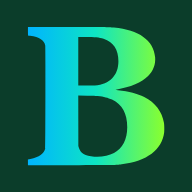
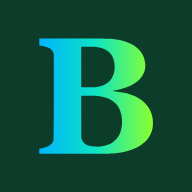
fix: tydligare logga i ljust läge och mer luft i ikonerna
Loggans blå och turkos flöt ihop med den gröna sidomenyn, så den får
faviconens ljusare färger där. B:et tar nu 60 % av de stora ikonerna
och 68 % av 48 px, medan flikens små storlekar är oförändrade.

Changed region(s): [[0.125, 0.125, 0.875, 0.875], [0.5312, 0.5, 0.5938, 0.5312]]

diff --git a/src/components/shared/BokixWordmark.jsx b/src/components/shared/BokixWordmark.jsx
@@ -34,6 +34,14 @@ const PATH_D = "M8.39 37L2.92 37L2.92 35.25Q3.79 34.75 4.78 34.38Q5.77 34.01 6.6
 const VB_WIDTH = 125;
 const VB_HEIGHT = 40;
 
+// CSS-variabler så att en yta kan byta loggans färger: se den gröna sidomenyn
+// i ljust läge i index.css, där standardfärgerna flöt ihop med bakgrunden.
+const GRADIENT_STOPS = [
+  { stopColor: 'var(--logo-grad-a, #0ea5e9)' },
+  { stopColor: 'var(--logo-grad-b, #14b8a6)' },
+  { stopColor: 'var(--logo-grad-c, #84cc16)' },
+];
+
 export default function BokixWordmark({ height = 34, style, className }) {
   // Egen gradient-id per instans (useId()) — annars kolliderar två
   // samtidigt monterade loggor (t.ex. sidopanelen + mobilens topbar) på
@@ -56,9 +64,9 @@ export default function BokixWordmark({ height = 34, style, className }) {
     >
       <defs>
         <linearGradient id={gradId} x1="0%" y1="0%" x2="100%" y2="0%">
-          <stop offset="0%" stopColor="#0ea5e9" />
-          <stop offset="50%" stopColor="#14b8a6" />
-          <stop offset="100%" stopColor="#84cc16" />
+          <stop offset="0%" style={GRADIENT_STOPS[0]} />
+          <stop offset="50%" style={GRADIENT_STOPS[1]} />
+          <stop offset="100%" style={GRADIENT_STOPS[2]} />
         </linearGradient>
       </defs>
       <path d={PATH_D} fill={`url(#${gradId})`} />
@@ -84,9 +92,9 @@ export function BokixMark({ height = 30, style, className }) {
     >
       <defs>
         <linearGradient id={gradId} gradientUnits="userSpaceOnUse" x1="2.9" y1="0" x2="30.2" y2="0">
-          <stop offset="0%" stopColor="#0ea5e9" />
-          <stop offset="50%" stopColor="#14b8a6" />
-          <stop offset="100%" stopColor="#84cc16" />
+          <stop offset="0%" style={GRADIENT_STOPS[0]} />
+          <stop offset="50%" style={GRADIENT_STOPS[1]} />
+          <stop offset="100%" style={GRADIENT_STOPS[2]} />
         </linearGradient>
       </defs>
       <path d={PATH_D} fill={`url(#${gradId})`} />

diff --git a/src/index.css b/src/index.css
@@ -796,6 +796,15 @@ body {
   background-image: linear-gradient(rgba(0, 0, 0, 0.22), rgba(0, 0, 0, 0.22));
 }
 
+/* Loggans blå och turkos har för låg kontrast mot den gröna menyn i ljust
+   läge, kanterna flöt ihop och loggan såg suddig ut. Faviconens ljusare
+   färger i stället, gäller både ordmärket och B:et i smal sidomeny. */
+:root:not([data-theme="dark"]) .sidebar {
+  --logo-grad-a: #00b4ff;
+  --logo-grad-b: #0ee5c3;
+  --logo-grad-c: #8aff2e;
+}
+
 /* Bokix-loggan (App.jsx: BokixLogo) — base-stilarna för de två varianterna,
    flyttade hit FRÅN inline style specifikt så storlek/padding kan svara på
    @media-brytpunkter nedan (en riktig inline style vinner alltid över CSS,
